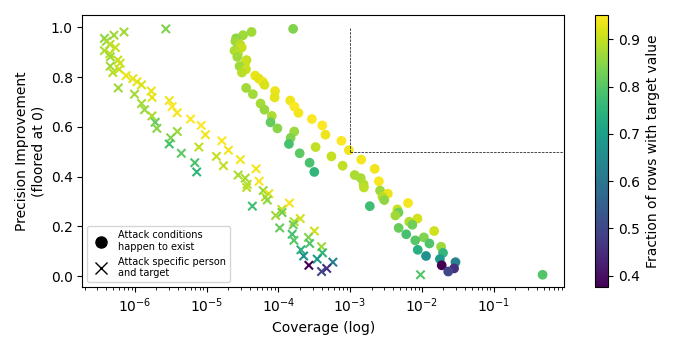
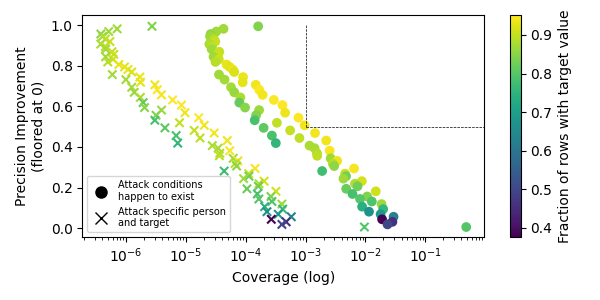
plots

Changed region(s): [[0.0, 0.03, 0.81, 0.96], [0.84, 0.03, 0.96, 0.84]]

diff --git a/suppress_threshold_attack.py b/suppress_threshold_attack.py
@@ -199,7 +199,7 @@ def do_model():
         json.dump(model_stats, f, indent=4)
 
 def make_bin_scatterplot(df_bin, color_by, label, filename, pi_floor):
-    plt.figure(figsize=(6, 3))
+    plt.figure(figsize=(7, 3.5))
     plt.scatter(df_bin['frac_perfect'], df_bin['pi_fl_mid'], c=df_bin[color_by], cmap='viridis', marker='o')
     plt.scatter(df_bin['frac_capt'], df_bin['pi_fl_mid'], c=df_bin[color_by], cmap='viridis', marker='x')
     #plt.scatter(df_bin['frac_perfect'], df_bin['pi_fl_mid'], c=df_bin[color_by], cmap='viridis')
@@ -207,8 +207,8 @@ def make_bin_scatterplot(df_bin, color_by, label, filename, pi_floor):
     plt.xscale('log')
     plt.hlines(0.5, 0.001, 1, colors='black', linestyles='--', linewidth=0.5)
     plt.vlines(0.001, 0.5, 1.0, colors='black', linestyles='--', linewidth=0.5)
-    plt.xlabel('Coverage (log)')
-    plt.ylabel(f'Precision Improvement\n(floored at {pi_floor})')
+    plt.xlabel('Coverage (log)', fontsize=13, labelpad=10)
+    plt.ylabel(f'Precision Improvement\n(floored at {pi_floor})', fontsize=13, labelpad=10)
 
     # Create custom legend
     legend_elements = [
@@ -295,7 +295,7 @@ def do_plots():
     # Create a basic scatterplot from the bins
     for color_by, label, filename in [
         ('bs_avg', 'Fraction best match syn table', 'pi_cov_bins_frac_bs.png'),
-        ('frac_tar_avg', 'Fraction of rows with target value', 'pi_cov_bins_frac_tar.png'),
+        ('frac_tar_avg', 'Fraction of rows\nwith target value', 'pi_cov_bins_frac_tar.png'),
         ('prob_baseline_avg', 'Baseline positive prediction probability', 'pi_cov_bins_baseline.png'),
         ('prob_full_attack_avg', 'Model positive prediction probability', 'pi_cov_bins_prob_full.png'),
         ]:
